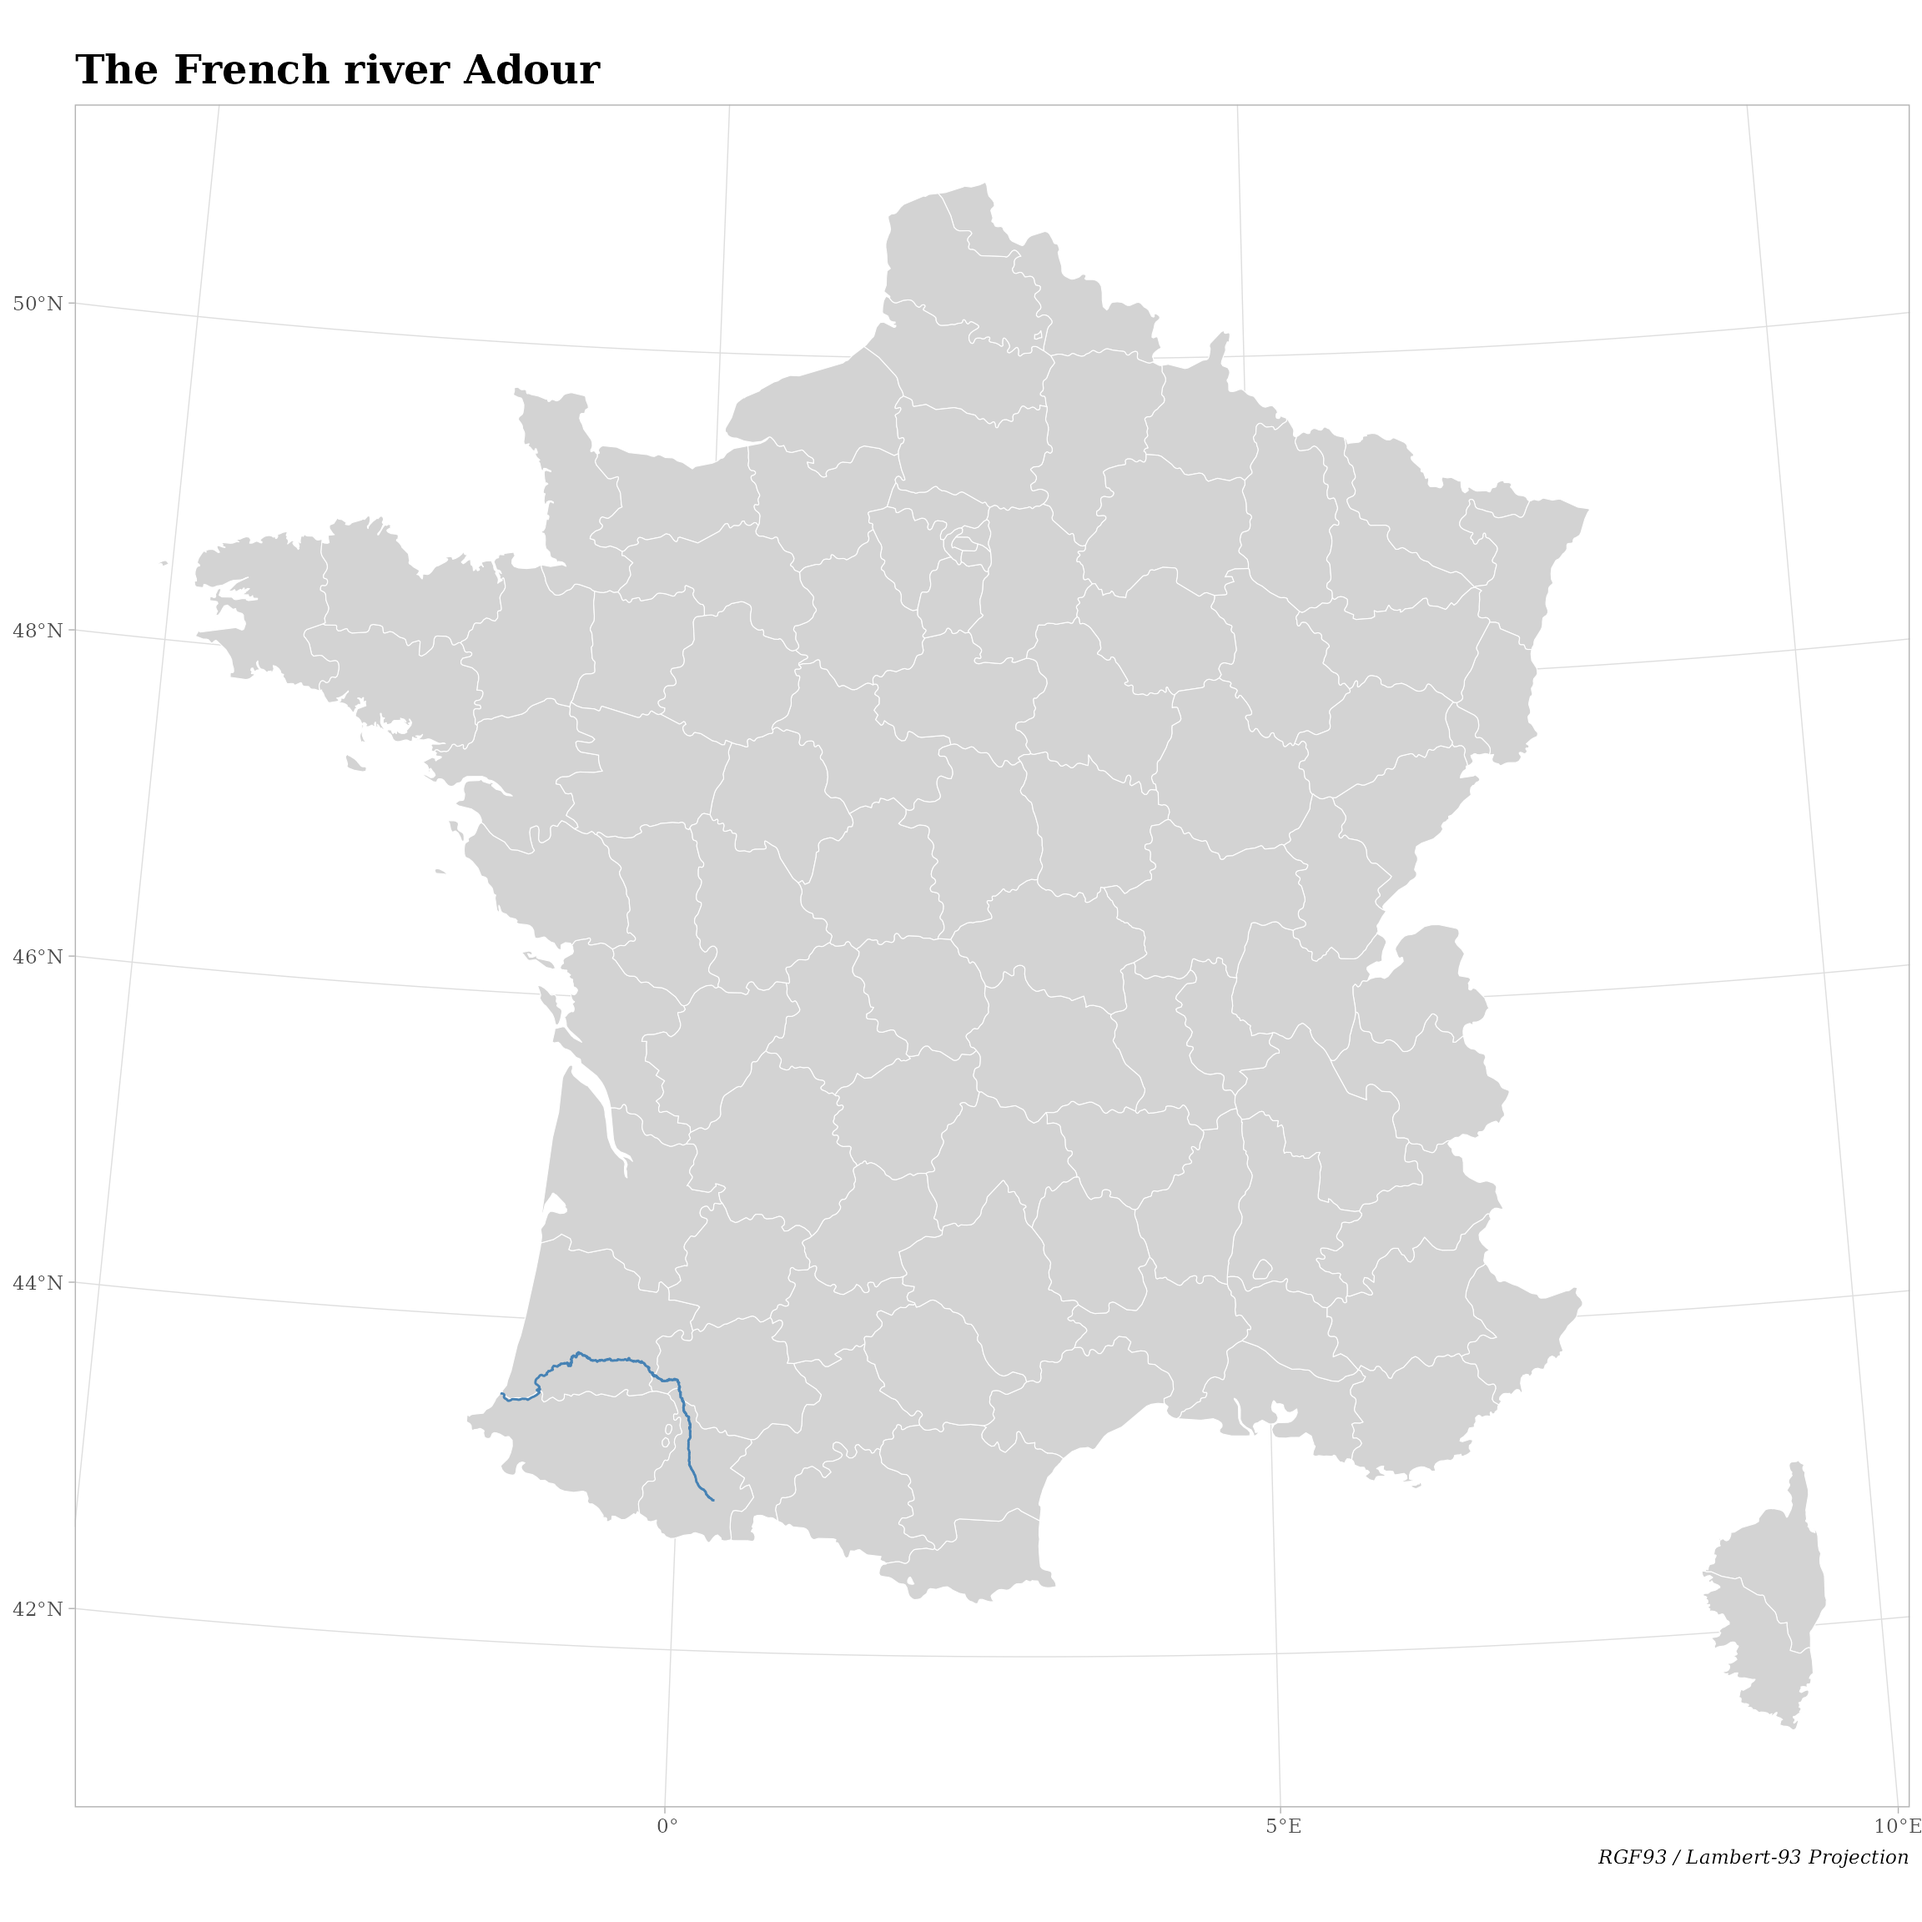
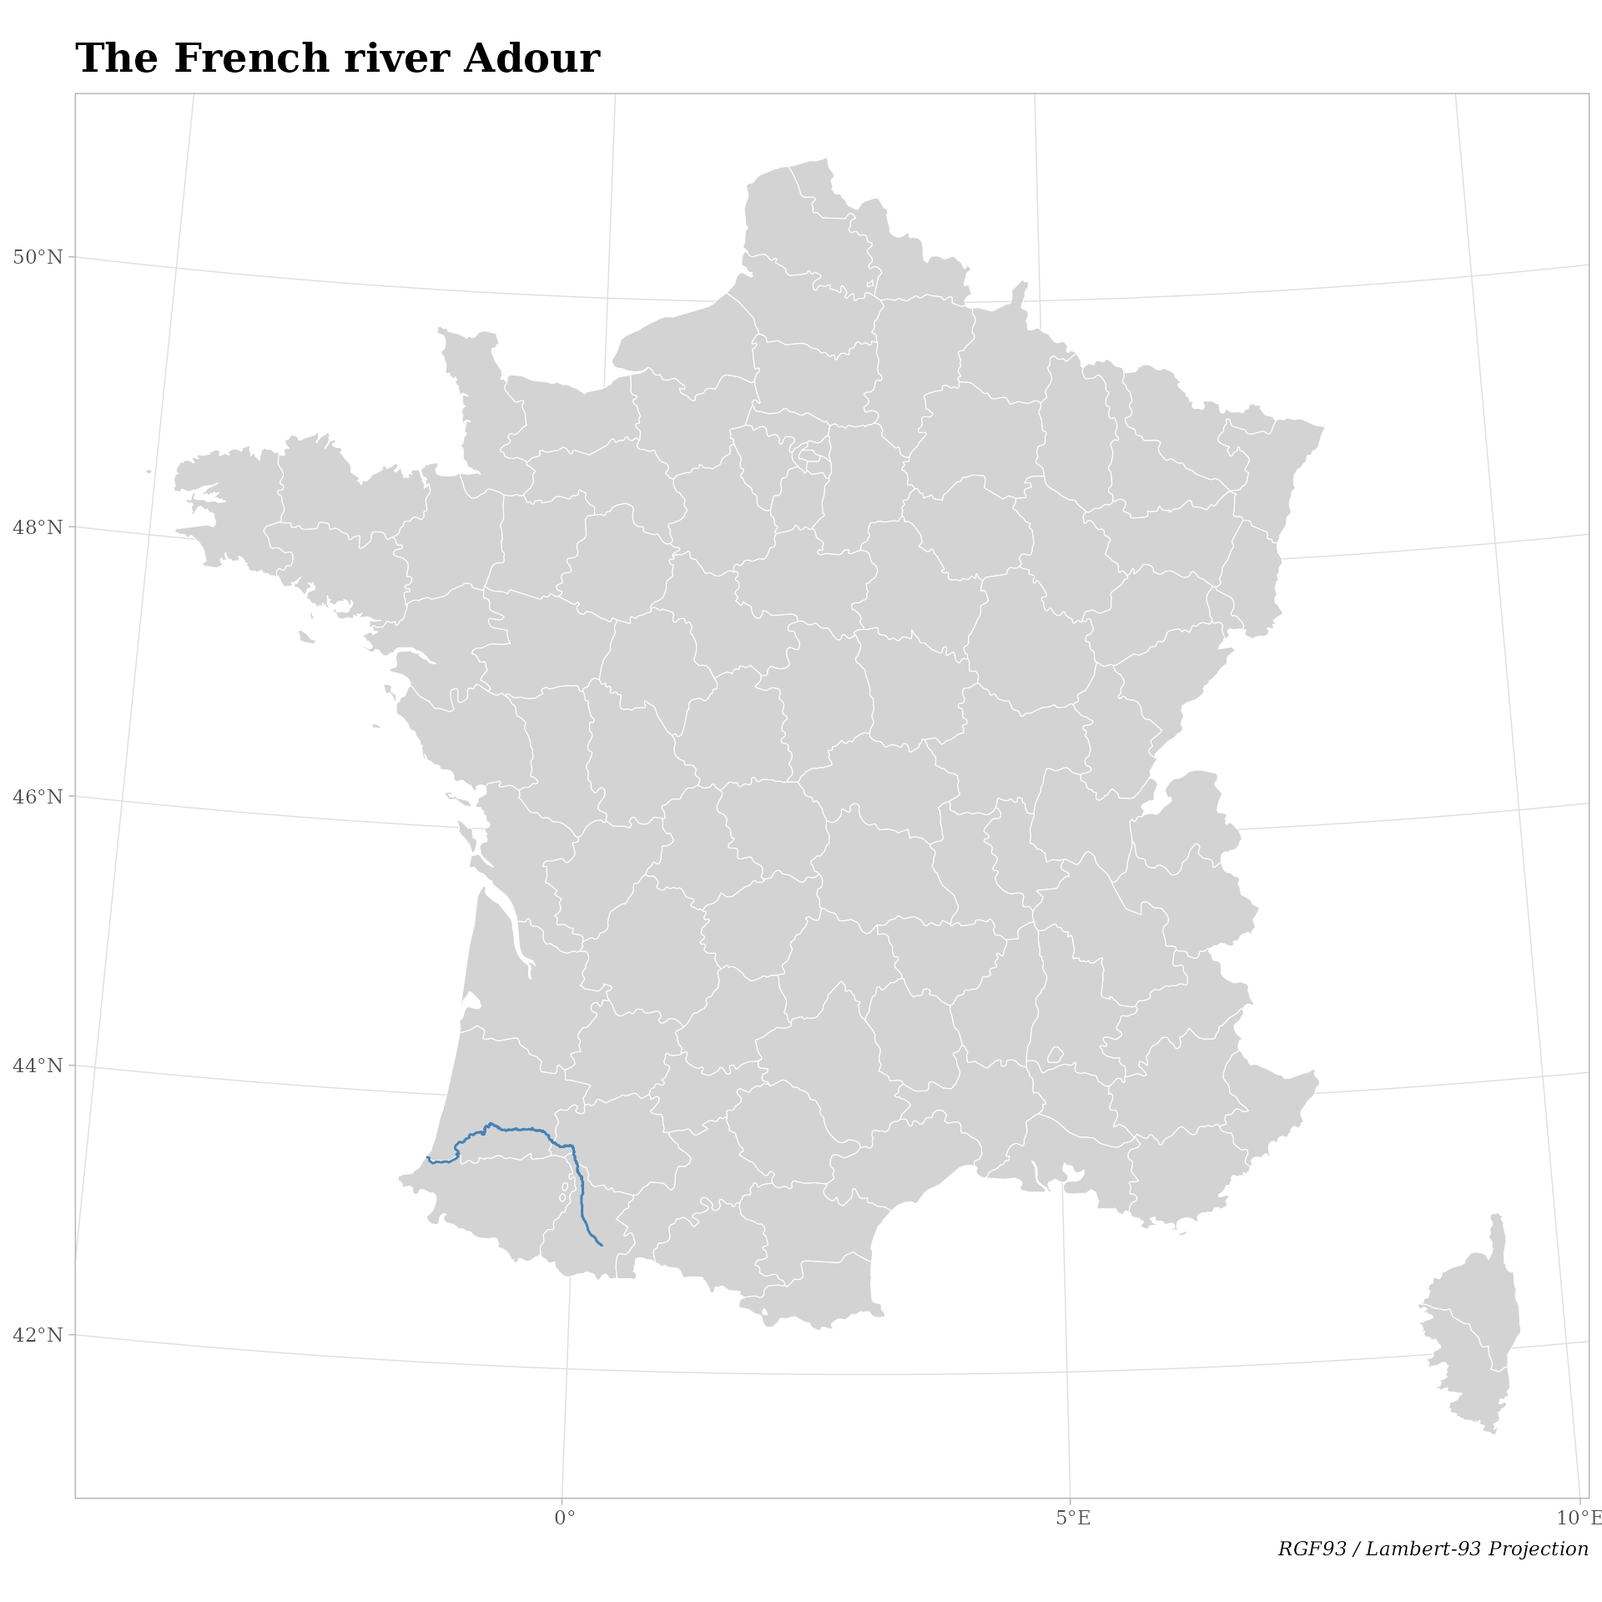
Built site for bridge: 0.0.0.9000@d624f10

diff --git a/articles/bridge.html b/articles/bridge.html
@@ -138,7 +138,7 @@
 <span>  <span class="fu"><a href="https://ggplot2.tidyverse.org/reference/labs.html" class="external-link">labs</a></span><span class="op">(</span>title   <span class="op">=</span> <span class="st">"The French river Adour"</span>, </span>
 <span>       caption <span class="op">=</span> <span class="st">"RGF93 / Lambert-93 Projection"</span><span class="op">)</span> <span class="op">+</span></span>
 <span>  <span class="fu">custom_theme</span><span class="op">(</span><span class="op">)</span></span></code></pre></div>
-<p><img src="bridge_files/figure-html/map-adour-river-1.png" width="100%"></p>
+<p><img src="bridge_files/figure-html/map-adour-river-1.png" width="100%" style="display: block; margin: auto;"></p>
 </div>
 <div class="section level3">
 <h3 id="adour-sites">Adour sites<a class="anchor" aria-label="anchor" href="#adour-sites"></a>
@@ -193,7 +193,7 @@
 <span>  <span class="fu"><a href="https://ggplot2.tidyverse.org/reference/labs.html" class="external-link">labs</a></span><span class="op">(</span>title   <span class="op">=</span> <span class="st">"Study area (French river Adour)"</span>, </span>
 <span>       caption <span class="op">=</span> <span class="st">"RGF93 / Lambert-93 Projection"</span><span class="op">)</span> <span class="op">+</span></span>
 <span>  <span class="fu">custom_theme</span><span class="op">(</span><span class="op">)</span></span></code></pre></div>
-<p><img src="bridge_files/figure-html/map-adour-sites-1.png" width="100%"></p>
+<p><img src="bridge_files/figure-html/map-adour-sites-1.png" width="100%" style="display: block; margin: auto;"></p>
 </div>
 </div>
 <div class="section level2">
